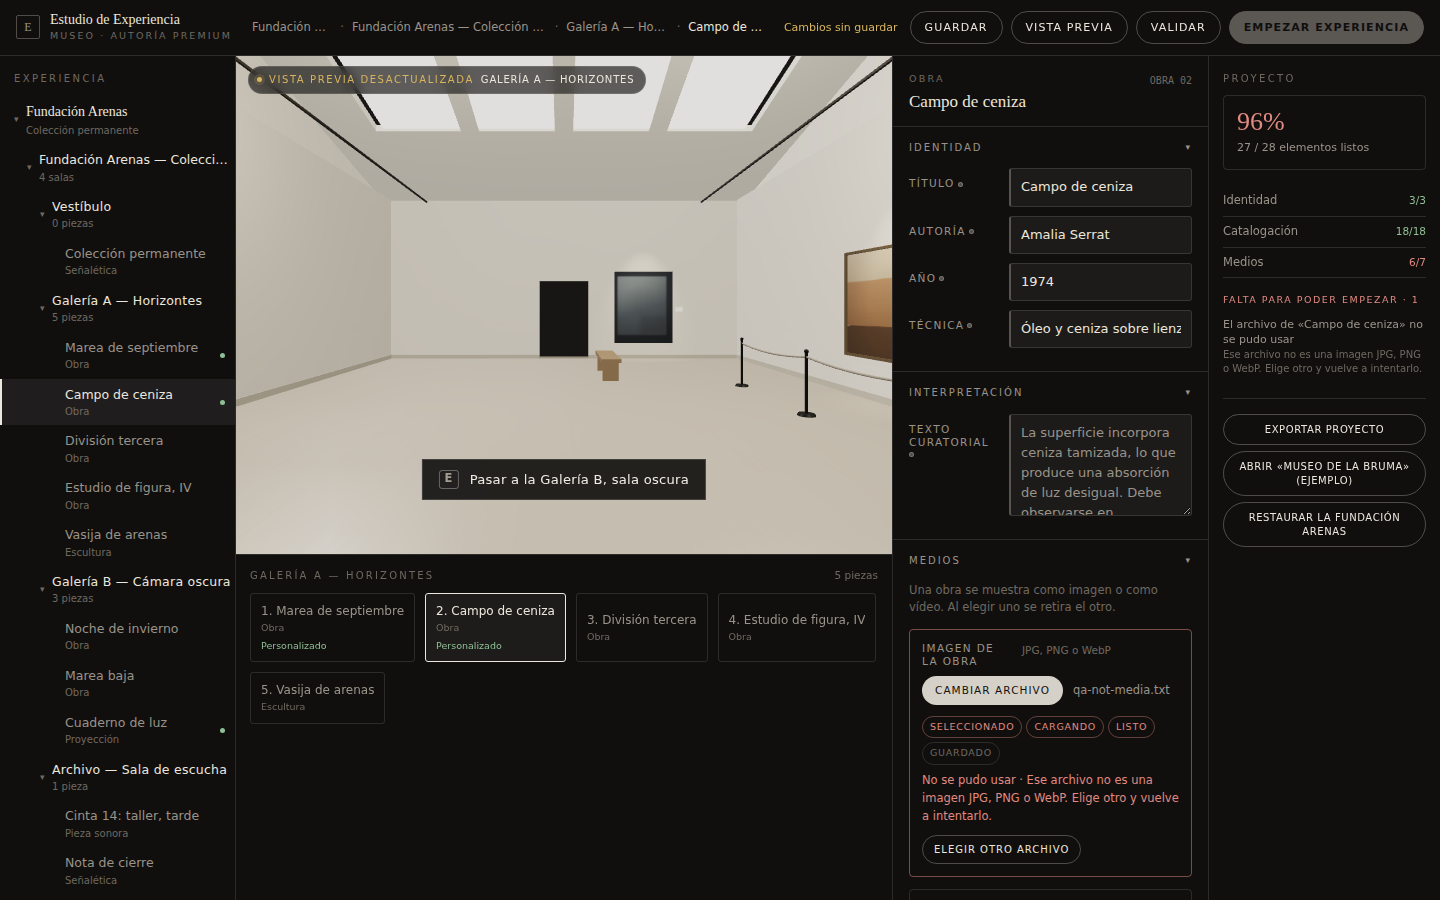
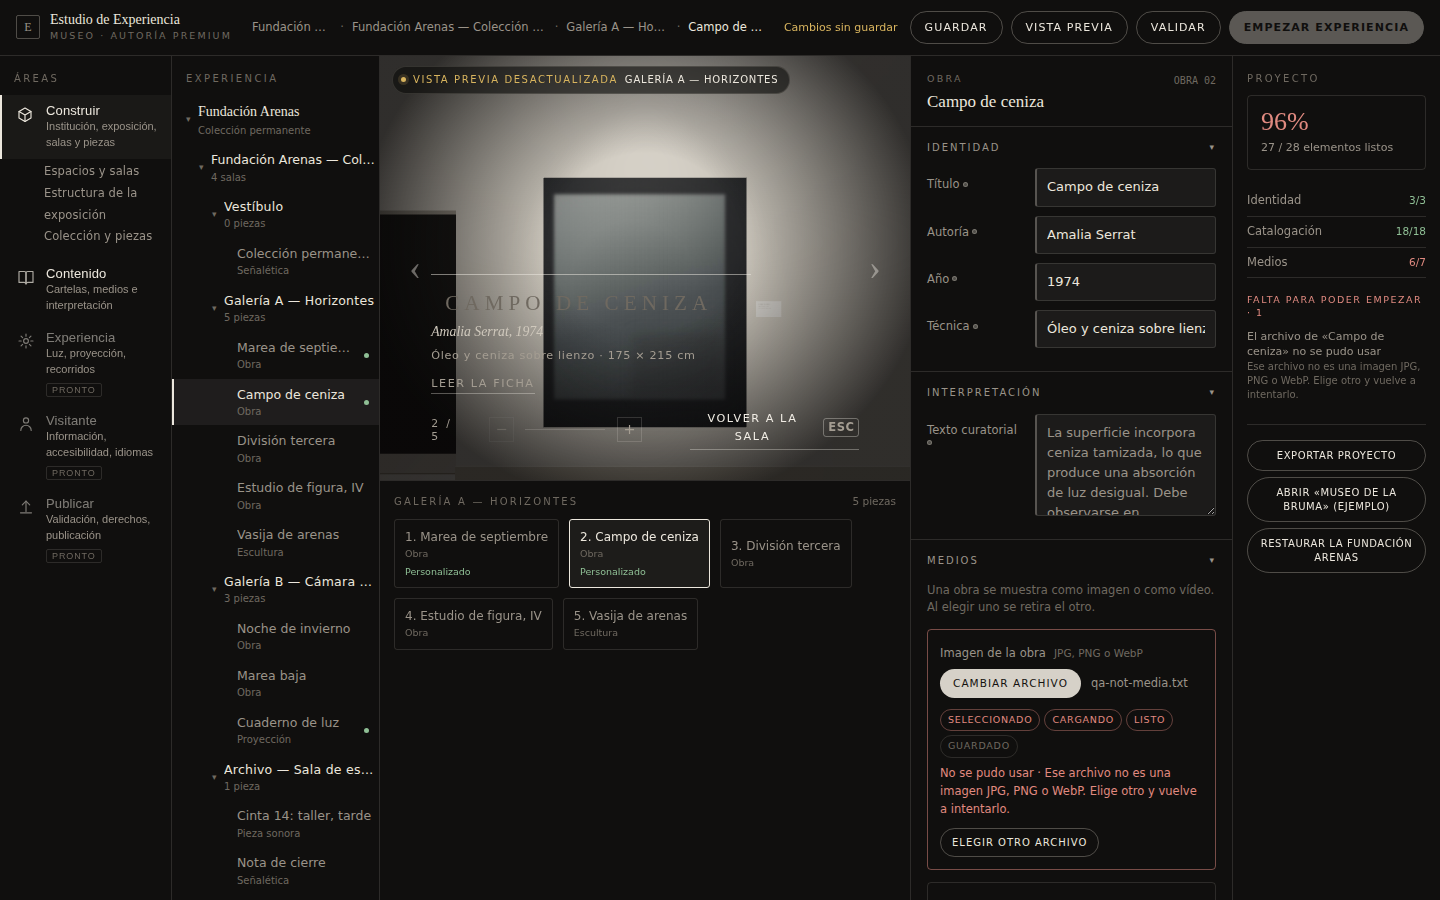
feat(museum): readiness as an instrument, not a sentence
Gap 3 of 3 against the approved reference.

The column stated a percentage in large type and listed three ratios. The
reference draws a ring, and the difference is not decoration: a number tells
you where you are, an arc tells you how much is left without arithmetic,
which is the question an author actually has. The unfilled part of the
circle is the part of the answer the number cannot give.

The arc is the figure the column already computed — nothing new is claimed —
and takes its colour from the project state, one of the three exceptions
house art direction allows.

Each domain row now carries a status dot as well as its ratio. The
reference marks every checklist line this way, and it is why its validation
column scans as an instrument while a list of "3/3" scans as prose: state
becomes legible without reading.

Deliberately not built: the reference's ACTIVIDAD RECIENTE feed, with named
people and timestamps. There is no history and there are no accounts behind
it, so every row would be invented. A validation console that fabricates its
own audit trail is worse than one that does not have it yet — recorded as
visual debt instead.

Smoke 12/12, no console errors.

PRODUCT APPROVAL: PENDING

Claude-Session: https://claude.ai/code/session_018wa7wg6wyBCfu7nkaPigxt

diff --git a/labs/immersive-worlds/authoring/studio/studio.css b/labs/immersive-worlds/authoring/studio/studio.css
@@ -383,12 +383,28 @@ h2 {
 /* == readiness ============================================================= */
 
 .st-val h2 { padding: 0; }
-.st-gauge { border: 1px solid var(--st-line); border-radius: 4px; padding: 13px; margin-bottom: 16px; }
-.st-gauge b { display: block; font: 400 26px/1 var(--st-serif); margin-bottom: 5px; }
+.st-gauge {
+  display: grid; grid-template-columns: 64px 1fr; align-items: center; gap: 13px;
+  border: 1px solid var(--st-line); border-radius: 4px; padding: 13px; margin-bottom: 16px;
+}
 .st-gauge i { display: block; font-style: normal; font-size: 11px; line-height: 1.45; color: var(--st-dim); }
-.st-gauge.is-ok b { color: var(--st-ok); }
-.st-gauge.is-busy b { color: var(--st-warn); }
-.st-gauge.is-bad b { color: var(--st-bad); }
+.st-ring { width: 64px; height: 64px; display: block; }
+.st-ring-track { fill: none; stroke: var(--st-line); stroke-width: 5; }
+/* The arc that is missing is the part of the answer a number cannot give. */
+.st-ring-fill {
+  fill: none; stroke-width: 5; stroke-linecap: round;
+  transition: stroke-dasharray 0.4s ease;
+}
+.st-ring-num {
+  font: 400 15px/1 var(--st-serif); fill: var(--st-ink);
+  text-anchor: middle; dominant-baseline: central;
+}
+.st-gauge.is-ok .st-ring-fill { stroke: var(--st-ok); }
+.st-gauge.is-busy .st-ring-fill { stroke: var(--st-warn); }
+.st-gauge.is-bad .st-ring-fill { stroke: var(--st-bad); }
+.st-gauge.is-ok .st-ring-num { fill: var(--st-ok); }
+.st-gauge.is-busy .st-ring-num { fill: var(--st-warn); }
+.st-gauge.is-bad .st-ring-num { fill: var(--st-bad); }
 
 /* What is complete, by domain. One percentage is a score; this is a to-do list. */
 .st-domains { list-style: none; margin: 0 0 16px; padding: 0; }
@@ -396,7 +412,16 @@ h2 {
   display: flex; align-items: baseline; justify-content: space-between; gap: 8px;
   padding: 6px 0; border-bottom: 1px solid var(--st-line); font-size: 11.5px;
 }
-.st-domains li span { color: var(--st-dim); }
+.st-domains li span {
+  color: var(--st-dim); display: flex; align-items: center; gap: 8px;
+}
+.st-domains li span::before {
+  content: ''; width: 6px; height: 6px; border-radius: 50%;
+  background: var(--st-faint); flex: 0 0 auto;
+}
+.st-domains li.is-ok span::before { background: var(--st-ok); }
+.st-domains li.is-warn span::before { background: var(--st-warn); }
+.st-domains li.is-bad span::before { background: var(--st-bad); }
 .st-domains li i { font-style: normal; font-size: 10.5px; color: var(--st-faint); }
 .st-domains li.is-ok i { color: var(--st-ok); }
 .st-domains li.is-warn i { color: var(--st-warn); }

diff --git a/labs/immersive-worlds/authoring/studio/studio-shell.js b/labs/immersive-worlds/authoring/studio/studio-shell.js
@@ -123,6 +123,32 @@ const ICON = Object.freeze({
 });
 
 /**
+ * Readiness, drawn as a dial rather than stated as a number.
+ *
+ * A percentage set in large type is a fact; the reference's ring is an
+ * instrument, and the difference is that an instrument shows the remainder. "84%"
+ * tells you where you are, but the unfilled arc tells you how much is left
+ * without arithmetic, which is the question an author actually has.
+ *
+ * The arc is the real figure — the same one the column already computed — and
+ * takes its colour from the project's state, which is one of the three
+ * exceptions house art direction allows.
+ */
+function ring(pct) {
+  const r = 26;
+  const c = 2 * Math.PI * r;
+  const filled = (Math.max(0, Math.min(100, pct)) / 100) * c;
+  return `
+    <svg class="st-ring" viewBox="0 0 64 64" role="img" aria-label="${pct}% del contenido necesario">
+      <circle cx="32" cy="32" r="${r}" class="st-ring-track"/>
+      <circle cx="32" cy="32" r="${r}" class="st-ring-fill"
+        stroke-dasharray="${filled.toFixed(1)} ${(c - filled).toFixed(1)}"
+        transform="rotate(-90 32 32)"/>
+      <text x="32" y="32" class="st-ring-num">${pct}%</text>
+    </svg>`;
+}
+
+/**
  * The Authoring Workspaces, as the system blueprint names them.
  *
  * These five are the product's spine, not a filter: the blueprint draws them as
@@ -707,7 +733,7 @@ export class StudioShell {
       <aside class="st-val" aria-label="Estado del proyecto">
         <h2>Proyecto</h2>
         <div class="st-gauge is-${tone}">
-          <b>${pct}%</b>
+          ${ring(pct)}
           <i>${esc(r.headline)}</i>
         </div>
         <ul class="st-domains">
